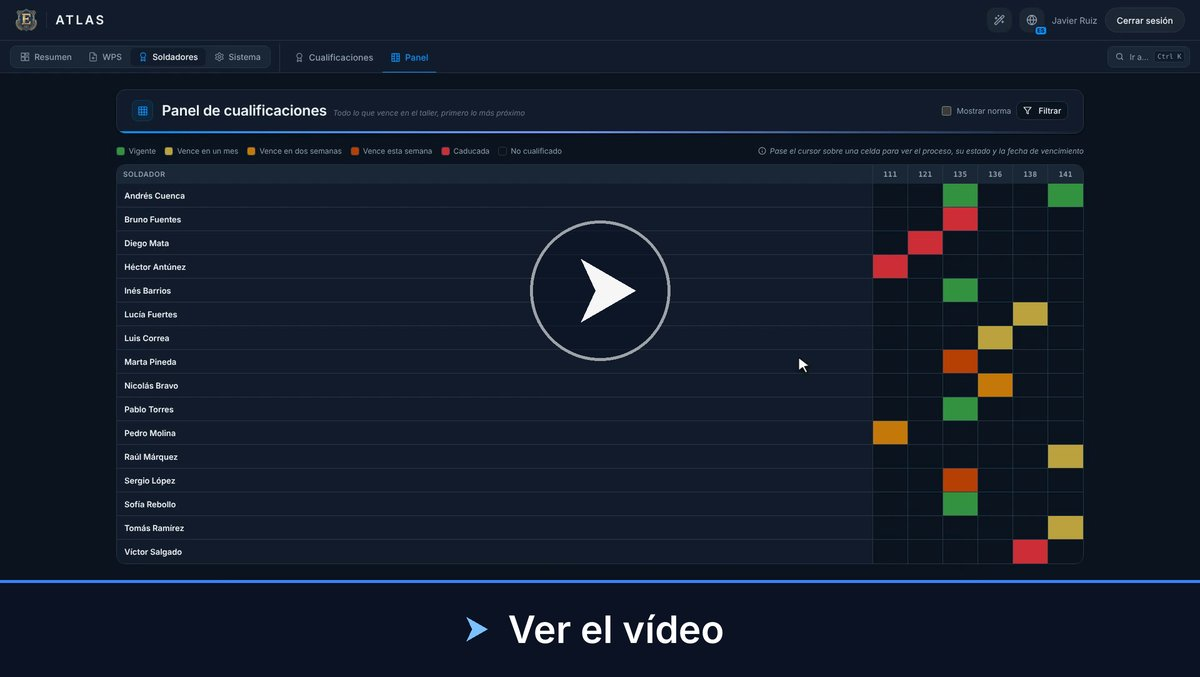
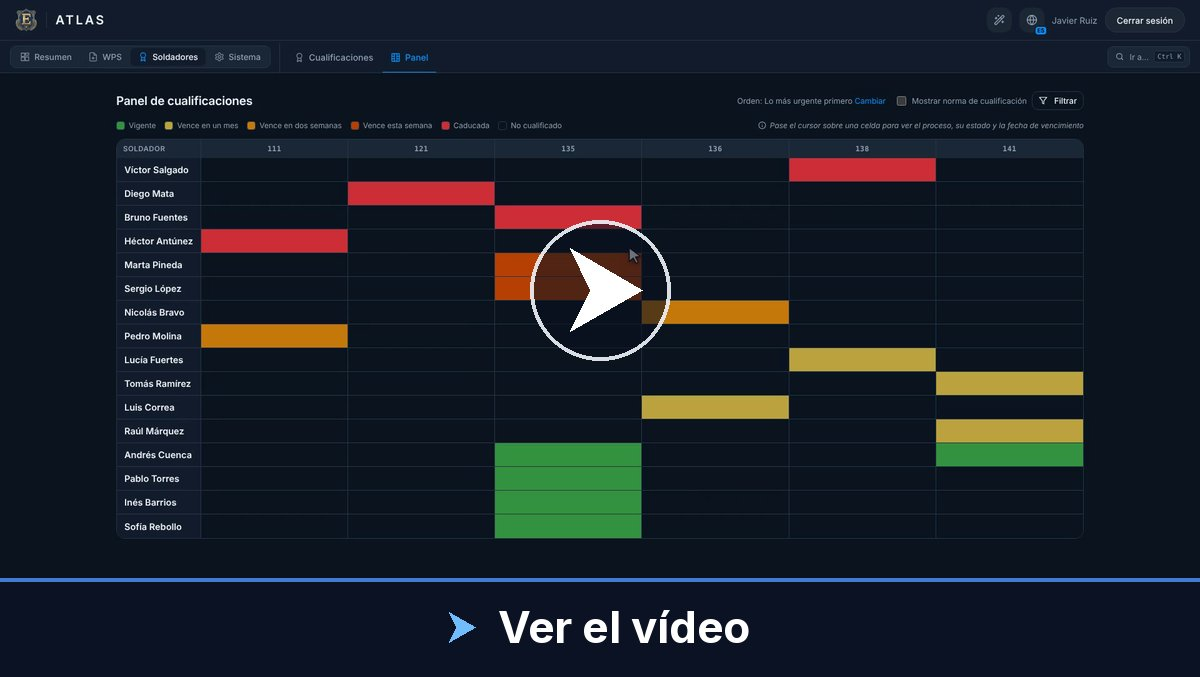
Atlas 1.2 videos and email thumbnails; trial page matches the cold email
- atlas-{en,es,pt}.mp4 replaced with the 1.2 videos (1280x720), new posters, cache-busted (?v=1.2)
- email-{en,es,pt}.jpg: clickable video preview for the outreach e-mails
- wps-manager-contact (EN/PT/ES): free month, documents optional, price per company, no parser/tenancy jargon
- MARKETING-TODO.md: marketing notes for the site (not published)

Changed region(s): [[0.0, 0.1241, 1.0, 0.8685], [0.4008, 0.6514, 0.555, 0.8065], [0.37, 0.8996, 0.6475, 0.9616]]

diff --git a/docs/es/wps-manager-contact.html b/docs/es/wps-manager-contact.html
@@ -2,10 +2,10 @@
 layout: default
 lang: es
 permalink: /es/wps-manager-contact.html
-title: "Hable con los Fundadores | Elenchon Atlas"
-description: "Reserve una tenancy en la nube para Elenchon Atlas. Envíenos algunos de sus documentos WPS, confirmamos que el parser lee su plantilla, y entra en funcionamiento — gestionado directamente por los fundadores, 100 % confidencial."
-og_title: "Hable con los Fundadores | Elenchon Atlas"
-og_description: "Reserve una tenancy en la nube para Elenchon Atlas — incorporación guiada directamente por los fundadores, con su importación de WPS comprobada primero sobre su propia documentación."
+title: "Pruebe Elenchon Atlas | Prueba gratuita"
+description: "Vea Elenchon Atlas en un vídeo rápido y pruébelo un mes sin pagar nada. Si lo prefiere, preparamos la prueba con sus documentos ya dentro."
+og_title: "Pruebe Elenchon Atlas | Prueba gratuita"
+og_description: "Un vídeo rápido, un mes sin pagar nada y sus documentos dentro si lo prefiere. Después, entre 60 y 80 € al mes para toda la empresa."
 og_image: "/static/DelterisCrest.webp"
 schema: schema/wps-manager-contact.json
 en_url: "/wps-manager-contact.html"
@@ -18,8 +18,8 @@ crumb: "Prueba Gratuita"
     <header class="page-hero">
         <div class="hero-content">
             <span class="hero-eyebrow">Elenchon Atlas · Prueba Gratuita</span>
-            <h1 class="text-glow">Empiece su Prueba Gratuita.<br>Comprobada Primero sobre sus Propias WPS.</h1>
-            <p class="hero-sub">La incorporación la guían los fundadores — sin capa comercial, sin cola de llamadas. Envíe algunas de sus WPS, confirmamos que el parser lee su plantilla y entra en funcionamiento con una biblioteca comprobada sobre su propia documentación.</p>
+            <h1 class="text-glow">Pruebe Atlas un mes, sin pagar nada.<br>Con sus documentos, si lo prefiere.</h1>
+            <p class="hero-sub">Vea primero el vídeo rápido. Si le encaja, escríbanos y preparamos su acceso. Si quiere, envíenos las WPS, los WPQR y las homologaciones de los soldadores que le parezca bien compartir, y empieza directamente con ellos dentro. Sin compromiso y sin tarjeta.</p>
             <p class="hero-hub-link">Parte de <a href="/es/wps-management-software.html">Elenchon Atlas</a>, el registro en la nube de sus WPS y cualificaciones de soldadores.</p>
         </div>
     </header>
@@ -28,9 +28,9 @@ crumb: "Prueba Gratuita"
 
     <section class="page-section container u-tight-bottom">
         <div class="dark-panel contact-panel">
-            <h2>Inicie su Incorporación al Atlas</h2>
-            <p class="contact-intro">Escríbanos y nos ocupamos de la configuración: confirmamos que el parser lee su plantilla de WPS, la ajustamos si hace falta y aprovisionamos su tenancy en la nube. Sus documentos se mantienen confidenciales y solo se usan para verificar la importación. Precio: 60 €/mes en plan anual (720 €/año), u 80 € mes a mes, con 50 GB de almacenamiento incluidos.</p>
-            <p class="contact-intro"><strong>Oferta para los primeros clientes:</strong> importamos su biblioteca de WPS por usted. Lo ofrecemos a nuestro criterio mientras tengamos capacidad, y le avisamos antes de que se registre si ya no está disponible.</p>
+            <h2>Pedir la prueba gratuita</h2>
+            <p class="contact-intro">Basta con un correo: respondemos en un día laborable y nos encargamos nosotros de la configuración. Los documentos que nos envíe se tratan con total confidencialidad y solo sirven para preparar su acceso. Después del mes de prueba, cuesta entre 60 y 80 € al mes para toda la empresa (60 € en el plan anual, 80 € mes a mes), con 50 GB de almacenamiento incluidos.</p>
+            <p class="contact-intro"><strong>De momento:</strong> si lo prefiere, también cargamos nosotros sus WPS, WPQR y homologaciones. Lo hacemos mientras tengamos capacidad, y le avisamos antes si deja de estar disponible.</p>
 
             <div class="contact-card">
                 <span class="contact-label">Envíenos un Correo Directamente</span>

diff --git a/docs/pt/wps-manager-contact.html b/docs/pt/wps-manager-contact.html
@@ -2,10 +2,10 @@
 layout: default
 lang: pt
 permalink: /pt/wps-manager-contact.html
-title: "Fale com os Fundadores | Elenchon Atlas"
-description: "Reserve uma tenancy na cloud para o Elenchon Atlas. Envie-nos alguns dos seus documentos WPS, confirmamos que o parser lê o seu modelo, e entra em funcionamento — tratado diretamente pelos fundadores, 100% confidencial."
-og_title: "Fale com os Fundadores | Elenchon Atlas"
-og_description: "Reserve uma tenancy na cloud para o Elenchon Atlas — integração guiada diretamente com os fundadores, com a sua importação de WPS comprovada na sua própria papelada primeiro."
+title: "Experimente o Elenchon Atlas | Teste gratuito"
+description: "Veja o Elenchon Atlas num vídeo rápido e experimente-o um mês sem pagar nada. Se preferir, preparamos o teste já com os seus documentos."
+og_title: "Experimente o Elenchon Atlas | Teste gratuito"
+og_description: "Um vídeo rápido, um mês sem pagar nada, e os seus documentos lá dentro se preferir. Depois, entre 60 e 80 € por mês para toda a empresa."
 og_image: "/static/DelterisCrest.webp"
 schema: schema/wps-manager-contact.json
 en_url: "/wps-manager-contact.html"
@@ -18,8 +18,8 @@ crumb: "Teste Gratuito"
     <header class="page-hero">
         <div class="hero-content">
             <span class="hero-eyebrow">Elenchon Atlas · Teste Gratuito</span>
-            <h1 class="text-glow">Comece o Seu Teste Gratuito.<br>Comprovado nas Suas Próprias WPS Primeiro.</h1>
-            <p class="hero-sub">A integração é guiada pelos fundadores — sem camada comercial, sem fila de chamadas. Envie algumas das suas WPS, confirmamos que o parser lê o seu modelo e entra em funcionamento com uma biblioteca comprovada na sua própria papelada.</p>
+            <h1 class="text-glow">Experimente o Atlas um mês, sem pagar nada.<br>Com os seus documentos, se preferir.</h1>
+            <p class="hero-sub">Veja primeiro o vídeo rápido. Se fizer sentido, escreva-nos e preparamos o seu acesso. Se quiser, envie-nos as WPS, os WPQR e os certificados dos soldadores que se sentir à vontade para partilhar, e começa logo com eles lá dentro. Sem compromisso e sem cartão.</p>
             <p class="hero-hub-link">Parte do <a href="/pt/wps-management-software.html">Elenchon Atlas</a>, o registo na cloud das suas WPS e qualificações de soldadores.</p>
         </div>
     </header>
@@ -28,9 +28,9 @@ crumb: "Teste Gratuito"
 
     <section class="page-section container u-tight-bottom">
         <div class="dark-panel contact-panel">
-            <h2>Inicie a Sua Integração no Atlas</h2>
-            <p class="contact-intro">Escreva-nos e tratamos da configuração: confirmamos que o parser lê o seu modelo de WPS, ajustamo-lo se necessário e provisionamos a sua tenancy na cloud. Os seus documentos ficam confidenciais e são usados apenas para verificar a importação. Preço: 60 €/mês em plano anual (720 €/ano), ou 80 € mês a mês, com 50 GB de armazenamento incluídos.</p>
-            <p class="contact-intro"><strong>Oferta para os primeiros clientes:</strong> importamos a sua biblioteca de WPS por si. Oferecemos isto ao nosso critério enquanto tivermos capacidade, e avisamos antes de se inscrever se já não estiver disponível.</p>
+            <h2>Pedir o teste gratuito</h2>
+            <p class="contact-intro">Basta um email: respondemos dentro de um dia útil e tratamos nós da configuração. Os documentos que enviar ficam confidenciais e servem apenas para preparar o seu acesso. Depois do mês de teste, custa entre 60 e 80 € por mês para toda a empresa (60 € no plano anual, 80 € mês a mês), com 50 GB de armazenamento incluídos.</p>
+            <p class="contact-intro"><strong>De momento:</strong> se preferir, também importamos nós as suas WPS, WPQR e certificados. Fazemo-lo enquanto tivermos capacidade, e avisamos antes se já não estiver disponível.</p>
 
             <div class="contact-card">
                 <span class="contact-label">Envie-nos um Email Diretamente</span>

diff --git a/docs/wps-manager-contact.html b/docs/wps-manager-contact.html
@@ -1,9 +1,9 @@
 ---
 layout: default
-title: "Contact the Founders | Elenchon Atlas"
-description: "Secure a cloud tenancy for Elenchon Atlas. Send us a few of your WPS documents, we confirm the parser reads your template, and you go live — handled directly by the founders, 100% confidential."
-og_title: "Contact the Founders | Elenchon Atlas"
-og_description: "Secure a cloud tenancy for Elenchon Atlas — guided onboarding directly with the founders, with your WPS import proven on your own paperwork first."
+title: "Try Elenchon Atlas | Free trial"
+description: "See Elenchon Atlas in a quick video and try it for a month without paying anything. If you prefer, we set up the trial with your own documents already inside."
+og_title: "Try Elenchon Atlas | Free trial"
+og_description: "A quick video, a month without paying anything, and your own documents inside if you prefer. After that, €60–80 a month for the whole company."
 og_image: "/static/DelterisCrest.webp"
 schema: schema/wps-manager-contact.json
 en_url: "/wps-manager-contact.html"
@@ -16,8 +16,8 @@ crumb: "Free Trial"
     <header class="page-hero">
         <div class="hero-content">
             <span class="hero-eyebrow">Elenchon Atlas · Free Trial</span>
-            <h1 class="text-glow">Start Your Free Trial.<br>Proven on Your Own WPS First.</h1>
-            <p class="hero-sub">Onboarding is guided by the founders — no sales layer, no call queue. Send a few of your WPS, we confirm the parser reads your template, and you go live with a library proven on your own paperwork.</p>
+            <h1 class="text-glow">Try Atlas for a month, without paying anything.<br>With your own documents, if you prefer.</h1>
+            <p class="hero-sub">Watch the quick video first. If it makes sense, write to us and we set up your access. If you like, send us whichever WPS, WPQRs and welder certificates you're comfortable sharing, and you start with them already inside. No commitment, no card.</p>
             <p class="hero-hub-link">Part of <a href="wps-management-software.html">Elenchon Atlas</a>, the cloud register for your WPS and welder qualifications.</p>
         </div>
     </header>
@@ -26,9 +26,9 @@ crumb: "Free Trial"
 
     <section class="page-section container u-tight-bottom">
         <div class="dark-panel contact-panel">
-            <h2>Start Your Atlas Onboarding</h2>
-            <p class="contact-intro">Write to us and we'll set you up: we confirm the parser reads your WPS template, tweak it if needed, and provision your cloud tenancy. Your documents stay confidential and are used only to verify your import. Pricing: €60/month billed annually (€720/year), or €80 month to month, with 50 GB of storage included.</p>
-            <p class="contact-intro"><strong>Early-customer offer:</strong> we import your WPS library for you. We offer this at our discretion while we have the capacity, and we’ll tell you before you sign up if it’s no longer available.</p>
+            <h2>Ask for the free trial</h2>
+            <p class="contact-intro">One email is enough: we reply within one business day and handle the setup ourselves. Any documents you send stay confidential and are used only to prepare your access. After the trial month, it costs €60–80 a month for the whole company (€60 on the annual plan, €80 month to month), with 50 GB of storage included.</p>
+            <p class="contact-intro"><strong>For now:</strong> if you prefer, we also import your WPS, WPQRs and certificates for you. We do this while we have the capacity, and we'll tell you beforehand if it's no longer available.</p>
 
             <div class="contact-card">
                 <span class="contact-label">Email Us Directly</span>

diff --git a/docs/_includes/atlas-video.html b/docs/_includes/atlas-video.html
@@ -7,8 +7,8 @@
             <h2 class="atlas-video-h">{{ t_h }}</h2>
             <div class="atlas-video-frame">
             <video class="atlas-video-el" preload="metadata" playsinline
-                   poster="/static/video/atlas-{{ l }}-poster.webp?v=crest3" aria-label="{{ t_alt }}">
-                <source src="/static/video/atlas-{{ l }}.mp4" type="video/mp4">
+                   poster="/static/video/atlas-{{ l }}-poster.webp?v=1.2" aria-label="{{ t_alt }}">
+                <source src="/static/video/atlas-{{ l }}.mp4?v=1.2" type="video/mp4">
             </video>
             <button type="button" class="atlas-video-play" aria-label="{{ t_play }}">
                 <span class="atlas-video-water" aria-hidden="true"><i class="w1"></i><i class="w2"></i></span>

diff --git a/MARKETING-TODO.md b/MARKETING-TODO.md
@@ -1,0 +1,14 @@
+# Marketing to-dos for the website
+
+Notes from the marketing sessions (Oct 2026). Not published: lives outside `docs/`.
+
+## Video landing pages (cold-email link): DONE 25 Oct 2026
+Reworked PT/ES/EN `wps-manager-contact.html` (free month, documents optional, no jargon) and replaced the videos with Atlas 1.2. Still open: the page URL and title say "WPS Manager"; other Atlas pages still use "parser" / "tenancy".
+
+### Original note
+The cold emails link to the Atlas video ("um vídeo rápido"). The page must keep the email's promise: quick, optional, no pressure.
+- `docs/pt/wps-manager-contact.html` (and `/pt/trial/` redirect), ES/EN equivalents (`/es/trial`).
+- Today the PT page opens with "Envie algumas das suas WPS…", which makes sending documents sound required. The email now says the trial works without sending anything; sending documents (so the trial starts with them inside) is optional.
+- Avoid jargon such as "parser" in the hero.
+- The page name still says "WPS Manager" in its URL and title.
+- Copy and feelings: see the project doc `claude/email-templates.md` and `claude/messaging-framework.md`.
